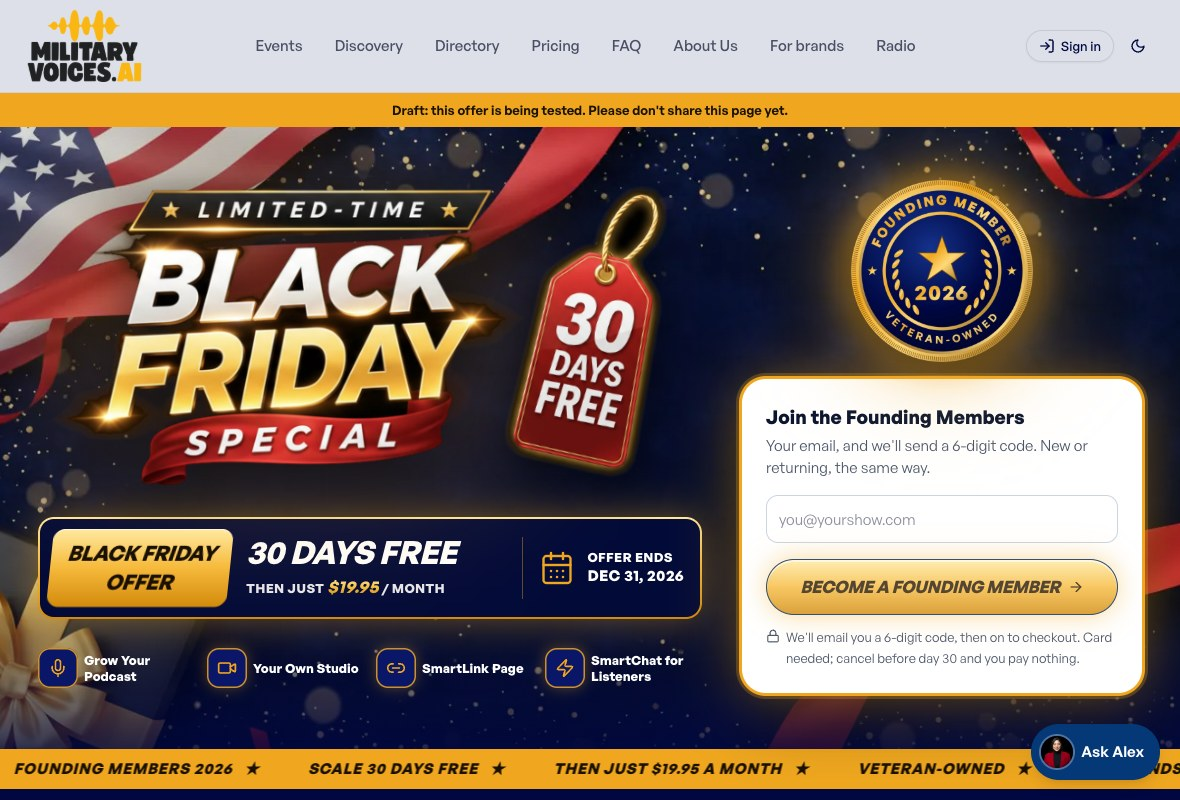
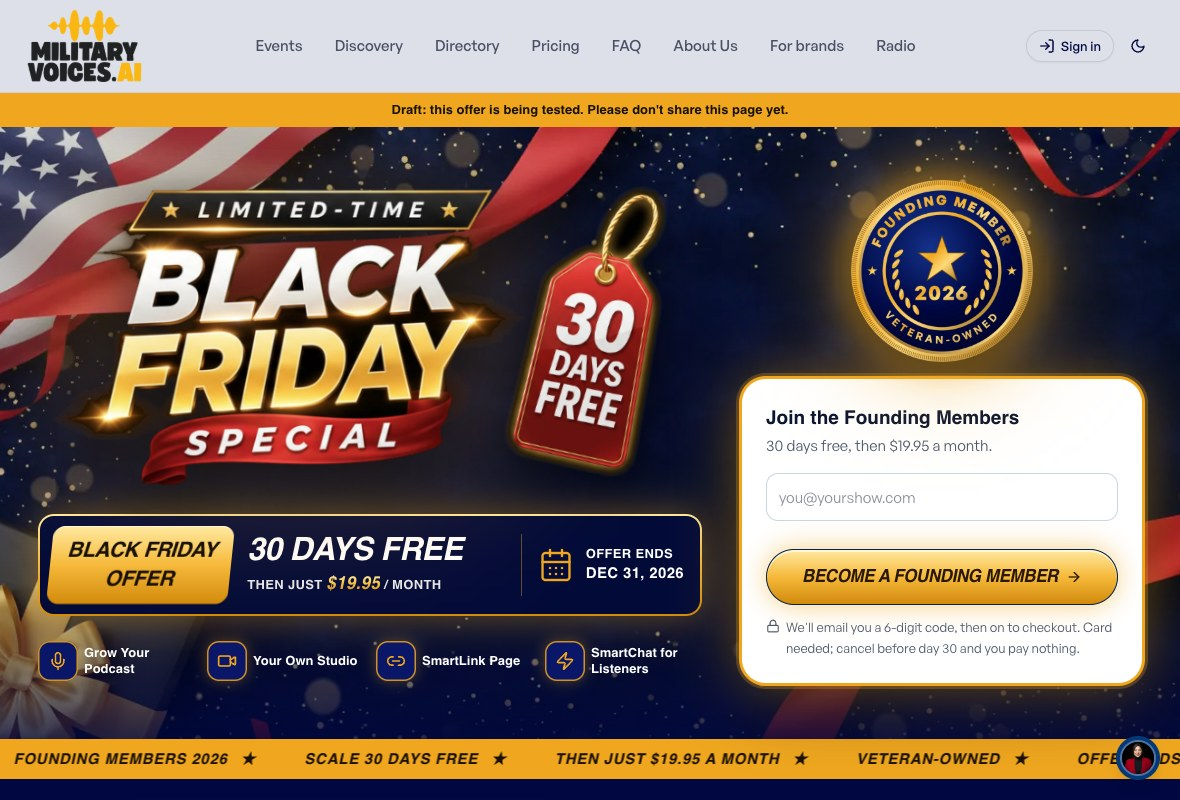
/black-friday: Turnstile takes no room unless Cloudflare needs a click (optional appearance/theme props, defaults unchanged), sub-line states the price, resting button full colour, Alex shrinks to a face on this page

diff --git a/client/src/pages/BlackFriday.tsx b/client/src/pages/BlackFriday.tsx
@@ -315,7 +315,7 @@ function JoinBox({ src }: { src: string }) {
   }, [signedIn, standing]);
 
   const shell = "relative rounded-3xl bg-white p-5 text-left text-[#0b1530] ring-[3px] ring-[#F0A71F] shadow-[0_0_0_6px_rgba(240,167,31,0.25),0_0_60px_rgba(240,167,31,0.5),0_24px_60px_rgba(0,0,0,0.45)] sm:p-6";
-  const gold = `h-14 w-full gap-2 disabled:opacity-80 rounded-full px-3 text-[15px] font-extrabold uppercase italic tracking-tight text-[#2a1800] shadow-[0_0_26px_rgba(240,167,31,0.55),inset_0_2px_0_rgba(255,255,255,0.6)] hover:brightness-110 sm:text-base ${GOLD_FILL}`;
+  const gold = `h-14 w-full gap-2 disabled:opacity-100 rounded-full px-3 text-[15px] font-extrabold uppercase italic tracking-tight text-[#2a1800] shadow-[0_0_26px_rgba(240,167,31,0.55),inset_0_2px_0_rgba(255,255,255,0.6)] enabled:hover:brightness-110 sm:text-base ${GOLD_FILL}`;
   const fine = "mt-3 flex items-start gap-1.5 text-xs leading-relaxed text-[#4a5568]";
   const err = error ? <p className="mt-3 text-sm font-medium text-red-600" role="alert">{error}</p> : null;
 
@@ -357,9 +357,9 @@ function JoinBox({ src }: { src: string }) {
       <p className="text-lg font-bold">Join the Founding Members</p>
       {step === "email" ? (
         <form onSubmit={(e) => { e.preventDefault(); if (email.includes("@") && (!siteKey || human)) void sendCode(); }}>
-          <p className="mt-1 text-sm text-[#4a5568]">Your email, and we'll send a 6-digit code. New or returning, the same way.</p>
+          <p className="mt-1 text-sm text-[#4a5568]">30 days free, then {price} a month.</p>
           <Input type="email" required autoComplete="email" placeholder="you@yourshow.com" value={email} onChange={(e) => setEmail(e.target.value)} className="mt-4 h-12 rounded-xl border-[#cbd5e1] bg-white text-base text-[#0b1530]" data-testid="bf-email" />
-          {siteKey && <div className="mt-3"><Turnstile siteKey={siteKey} onToken={setHuman} resetSignal={humanReset} /></div>}
+          {siteKey && <div className="mt-3"><Turnstile siteKey={siteKey} onToken={setHuman} resetSignal={humanReset} appearance="interaction-only" theme="light" /></div>}
           <Button type="submit" disabled={busy || !email.includes("@") || (Boolean(siteKey) && !human)} className={`mt-4 ${gold}`} data-testid="bf-send-code">
             {busy ? <Loader2 className="h-4 w-4 animate-spin" /> : <>Become a Founding Member <ArrowRight className="h-5 w-5" /></>}
           </Button>

diff --git a/client/src/components/HelpChat.tsx b/client/src/components/HelpChat.tsx
@@ -71,7 +71,7 @@ export function HelpChat() {
   const inApp = location.startsWith("/host/dashboard");
   // On the editing screens (Pōstify, the SmartLink builder) just Alex's face, on a computer too: the
   // full "Ask Alex" pill sat on the timeline and the phone preview (8 Oct).
-  const compact = /^\/host\/dashboard\/(postify|page)\b/.test(location);
+  const compact = /^\/host\/dashboard\/(postify|page)\b/.test(location) || location.startsWith("/black-friday");
   const [open, setOpen] = useState(false);
   const [msgs, setMsgs] = useState<Msg[]>([OPENER]);
   const [draft, setDraft] = useState("");
@@ -170,11 +170,11 @@ export function HelpChat() {
         <button
           type="button"
           onClick={() => setOpen(true)}
-          className={`fixed right-4 z-50 inline-flex items-center gap-2 rounded-full bg-[#053877] text-sm font-semibold text-white shadow-lg transition-transform hover:scale-[1.03] lg:right-5 ${compact ? "lg:p-1.5" : "lg:px-4 lg:py-3"} ${inApp ? "bottom-[calc(4.75rem+env(safe-area-inset-bottom))] p-1.5 lg:bottom-5" : "bottom-5 px-4 py-3"}`}
+          className={`fixed right-4 z-50 inline-flex items-center gap-2 rounded-full bg-[#053877] text-sm font-semibold text-white shadow-lg transition-transform hover:scale-[1.03] lg:right-5 ${compact ? "lg:p-1.5" : "lg:px-4 lg:py-3"} ${inApp ? "bottom-[calc(4.75rem+env(safe-area-inset-bottom))] p-1.5 lg:bottom-5" : compact ? "bottom-5 p-1.5" : "bottom-5 px-4 py-3"}`}
           aria-label="Open help"
           data-testid="button-help-open"
         >
-          <img src="/alex.jpg" alt="" className={`h-8 w-8 rounded-full object-cover ring-2 ring-white/30 ${inApp ? (compact ? "" : "lg:-ml-1.5") : "-ml-1.5"}`} />
+          <img src="/alex.jpg" alt="" className={`h-8 w-8 rounded-full object-cover ring-2 ring-white/30 ${inApp ? (compact ? "" : "lg:-ml-1.5") : compact ? "" : "-ml-1.5"}`} />
           {/* On the phone's dashboard: just Alex's face, above the tab bar. */}
           <span className={compact ? "sr-only" : inApp ? "hidden lg:inline" : ""}>Ask Alex</span>
         </button>

diff --git a/client/src/components/Turnstile.tsx b/client/src/components/Turnstile.tsx
@@ -43,11 +43,16 @@ export function Turnstile({
   siteKey,
   onToken,
   resetSignal = 0,
+  appearance = "always",
+  theme = "auto",
 }: {
   siteKey: string;
   onToken: (token: string | null) => void;
   /** Bump after every submit: a token is single-use. */
   resetSignal?: number;
+  /** "interaction-only" takes no room unless Cloudflare needs a click (the Black Friday page's phone fold). */
+  appearance?: "always" | "execute" | "interaction-only";
+  theme?: "auto" | "light" | "dark";
 }) {
   const host = useRef<HTMLDivElement>(null);
   const widget = useRef<string | null>(null);
@@ -68,7 +73,8 @@ export function Turnstile({
       if (cancelled || !host.current || !window.turnstile) return;
       widget.current = window.turnstile.render(host.current, {
         sitekey: siteKey,
-        theme: "auto",
+        theme,
+        appearance,
         size: "flexible",
         callback: (token: string) => latest.current(token),
         "expired-callback": () => latest.current(null),
@@ -80,7 +86,7 @@ export function Turnstile({
       if (widget.current && window.turnstile) window.turnstile.remove(widget.current);
       widget.current = null;
     };
-  }, [siteKey]);
+  }, [siteKey, appearance, theme]);
 
   useEffect(() => {
     if (resetSignal > 0 && widget.current && window.turnstile) {
@@ -91,7 +97,7 @@ export function Turnstile({
 
   return (
     <div>
-      <div ref={host} className="min-h-[65px]" data-testid="turnstile" />
+      <div ref={host} className={appearance === "interaction-only" ? "" : "min-h-[65px]"} data-testid="turnstile" />
       {slow && (
         <p className="mt-1 text-xs text-muted-foreground" data-testid="turnstile-slow">
           The security check hasn't loaded. If you use an ad or privacy blocker, pause it for this page, or try another browser.
